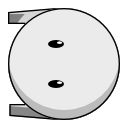
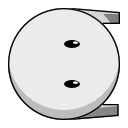
in the process of adding bomb functionality

diff --git a/client/js/game.js b/client/js/game.js
@@ -339,6 +339,7 @@ class Player {
         this.sprite.height = size;
         this.vx = 0;
         this.vy = 0;
+        this.facing = "down";
         this.bomb = false;
 
         this.game.grid.addChild(this.sprite);
@@ -348,6 +349,7 @@ class Player {
             right: new Keyboard(39),
             up: new Keyboard(38),
             down: new Keyboard(40),
+            enter: new Keyboard(18),
             last: null
         };
 
@@ -355,6 +357,7 @@ class Player {
         this.keyboard.down.onpress = () => this.keyboard.last = this.keyboard.down;
         this.keyboard.up.onpress = () => this.keyboard.last = this.keyboard.up;
         this.keyboard.right.onpress = () => this.keyboard.last = this.keyboard.right;
+        this.keyboard.enter.onpress = this.dropBomb((performance.now() - this.game.time.start) / 1000);
         this.move = { lastTime: 0, direction: null, sx: NaN, sy: NaN };
     }
 
@@ -365,20 +368,22 @@ class Player {
 
             switch (this.keyboard.last) {
                 case this.keyboard.left:
-                    this.sprite.texture = PIXI.utils.TextureCache["player-right"];
+                    this.sprite.texture = PIXI.utils.TextureCache["player-left"];
 
                     if (this.x - 64 < 0) break;
                     target = { x: this.x - 32, y: this.y + 32 };
 
                     this.move.direction = "left";
+                    this.facing = "right";
                     break;
                 case this.keyboard.right:
-                    this.sprite.texture = PIXI.utils.TextureCache["player-left"];
+                    this.sprite.texture = PIXI.utils.TextureCache["player-right"];
 
                     if (this.x + 64 > this.game.bounds.width) break;
                     target = { x: this.x + 96, y: this.y + 32 };
 
                     this.move.direction = "right";
+                    this.facing = "right";
                     break;
                 case this.keyboard.up:
                     this.sprite.texture = PIXI.utils.TextureCache["player-back"];
@@ -387,6 +392,7 @@ class Player {
                     target = { x: this.x + 32, y: this.y - 32 };
 
                     this.move.direction = "up";
+                    this.facing = "up";
                     break;
                 case this.keyboard.down:
                     this.sprite.texture = PIXI.utils.TextureCache["player-front"];
@@ -395,6 +401,7 @@ class Player {
                     target = { x: this.x + 32, y: this.y + 96 };
 
                     this.move.direction = "down";
+                    this.facing = "down";
                     break;
             }
 
@@ -461,17 +468,46 @@ class Player {
         if (this.bomb) return false;
         this.bomb = true;
 
-        if(tile)
-            tile.container.parent.removeChild(tile.container);
+        if (tile) {
+            this.game.grid.removeChild(tile.container);
+            this.game.tiles.splice(this.game.tiles.indexOf(tile), 1);
+        }
 
         var bombSprite = new PIXI.Sprite(PIXI.utils.TextureCache["bomb"]);
         bombSprite.width = 48;
         bombSprite.height = 48;
-        bombSprite.anchor.set(0.5, 1);
-        bombSprite.position.set(32, 64);
         this.sprite.addChild(bombSprite);
 
+        bombSprite.anchor.set(0.5, 0.5);
+        bombSprite.x = 32;
+        bombSprite.y = 32;
+
         return true;
+    }
+
+    dropBomb(time) {
+        if (!this.bomb) return false;
+        this.bomb = false;
+
+        var offset = { x: 0, y: 0 };
+        switch (this.facing) {
+            case "left":
+                offset.x = -64;
+                break;
+            case "right":
+                offset.x = 64;
+                break;
+            case "up":
+                offset.y = -64;
+                break;
+            case "down":
+                offset.y = 64;
+                break;
+        }
+
+        var bomb = new Bomb(this.game, time, this.x, this.y);
+        this.game.bombs.push(bomb);
+        this.game.grid.addChild(bomb.sprite);
     }
 
     get x() { return this.sprite.x; }
@@ -548,7 +584,31 @@ class Tile {
 }
 
 class Bomb {
+    constructor(game, time, x, y) {
+        this.game = game;
+        this.time = time;
+        this.x = x;
+        this.y = y;
 
+        this.sprite = new PIXI.Sprite(PIXI.utils.TextureCache["bomb"]);
+        this.sprite.width = 64;
+        this.sprite.height = 64;
+        this.game.grid.addChild(bombSprite);
+
+        this.sprite.x = x;
+        this.sprite.y = x;
+    }
+
+    update(time, dtime) {
+        var red = (time - this.time) / 5;
+        if (red >= 1) {
+            this.explode(time);
+        }
+    }
+
+    explode(time) {
+        this.game.grid.removeChild(this.sprite);
+    }
 }
 
 var game = new Game();
